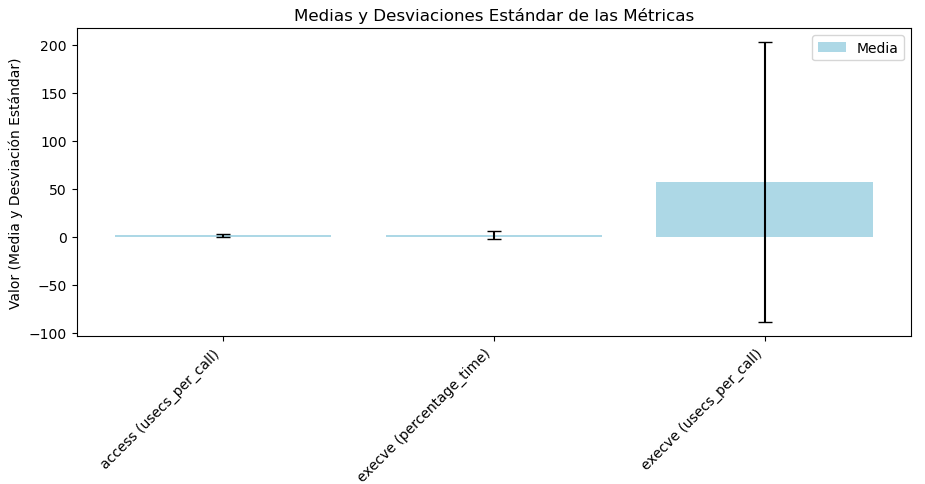
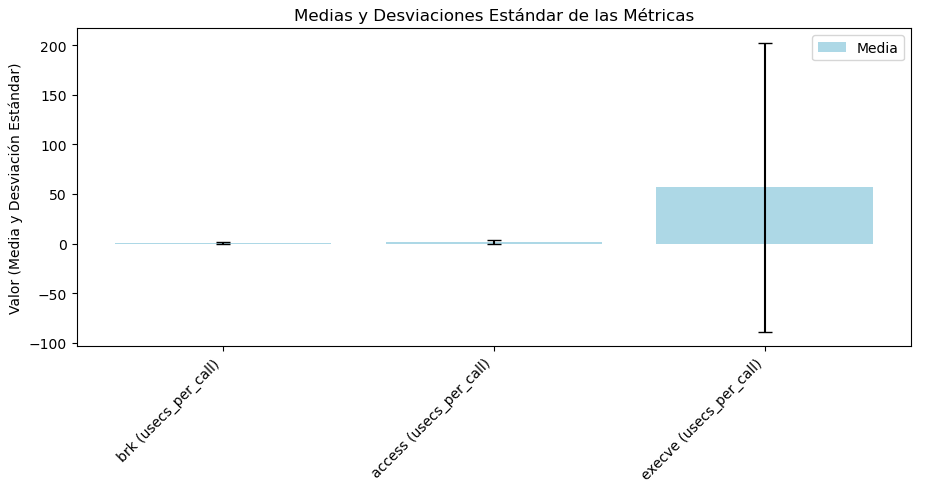
p2

diff --git a/p2/results/4ex_perf.py b/p2/results/4ex_perf.py
@@ -108,8 +108,41 @@ def normalize_matrices(my_matrix, eigen_matrix):
     return my_matrix_normalized, eigen_matrix_normalized
 
 
+def plot_grafic():
+    # Preparar los datos para el gráfico
+    metrics = list(my_matrix.keys())
+    my_values = list(my_matrix.values())
+    eigen_values = list(eigen_matrix.values())
+
+    x = np.arange(len(metrics))  # Índices para las métricas
+    width = 0.4  # Ancho de las barras
+
+    # Crear el gráfico
+    fig, ax = plt.subplots(figsize=(12, 6))
+
+    # Gráfico de barras con escala logarítmica
+    ax.bar(x - width/2, my_values, width, label='My Implementation', color='b', log=True)
+    ax.bar(x + width/2, eigen_values, width, label='Eigen Implementation', color='g', log=True)
+
+    # Añadir etiquetas y leyenda
+    ax.set_xlabel('Metric')
+    ax.set_ylabel('Value (Log Scale)')
+    ax.set_title('Comparative Metrics: Standard vs. Eigen Implementation')
+    ax.set_xticks(x)
+    ax.set_xticklabels(metrics, rotation=45, ha='right')
+    ax.legend()
+
+    # Añadir valores encima de las barras (opcional)
+    for i in range(len(metrics)):
+        ax.text(x[i] - width/2, my_values[i], f'{my_values[i]:.0e}', ha='center', va='bottom', color='blue', fontsize=9)
+        ax.text(x[i] + width/2, eigen_values[i], f'{eigen_values[i]:.0e}', ha='center', va='bottom', color='green', fontsize=9)
+
+    plt.tight_layout()
+    plt.show()
 
 if __name__ == "__main__":
+    plot_grafic()
+    exit()
     my_matrix, eigen_matrix = normalize_matrices(my_matrix, eigen_matrix)
     print(my_matrix)
     print(eigen_matrix)

diff --git a/p2/results/ex3_n_times.py b/p2/results/ex3_n_times.py
@@ -173,7 +173,7 @@ def write_results_to_file(file_path, avg_time_init_matrix, avg_time_multiplicati
         file.write(f"{'100.00':>15} {total_seconds:>15.5f} {int(total_calls):>20} {int(total_errors):>15} {'total':<15}\n")
 
 
-def detect_high_deviation(avg_time_init_matrix, avg_time_multiplication_matrix, avg_syscall_stats, threshold=1):
+def detect_high_deviation(avg_time_init_matrix, avg_time_multiplication_matrix, avg_syscall_stats, threshold=0.9):
     # Inicializar los vectores de resultados
     names = []       # Para almacenar "ini_matrix", "mult_matrix" o el nombre de la syscall
     measures = []    # Para almacenar "time" o el nombre de la medida (stat_name)
@@ -199,7 +199,7 @@ def detect_high_deviation(avg_time_init_matrix, avg_time_multiplication_matrix, 
     # Verificar desviación estándar alta en las llamadas al sistema
     for syscall_name, stats in avg_syscall_stats.items():
         for stat_name, (mean, stddev) in stats.items():
-            if mean > 1 and stddev / mean > threshold:
+            if stat_name != "percentage_time" and mean > 0.9 and stddev / mean > threshold:
                 names.append(syscall_name)
                 measures.append(stat_name)
                 means.append(mean)
